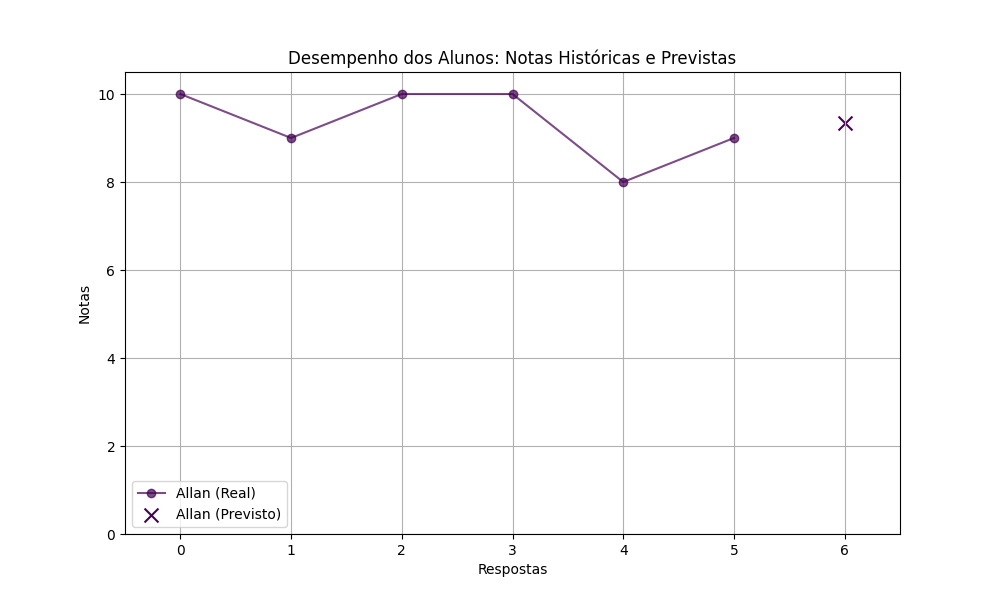
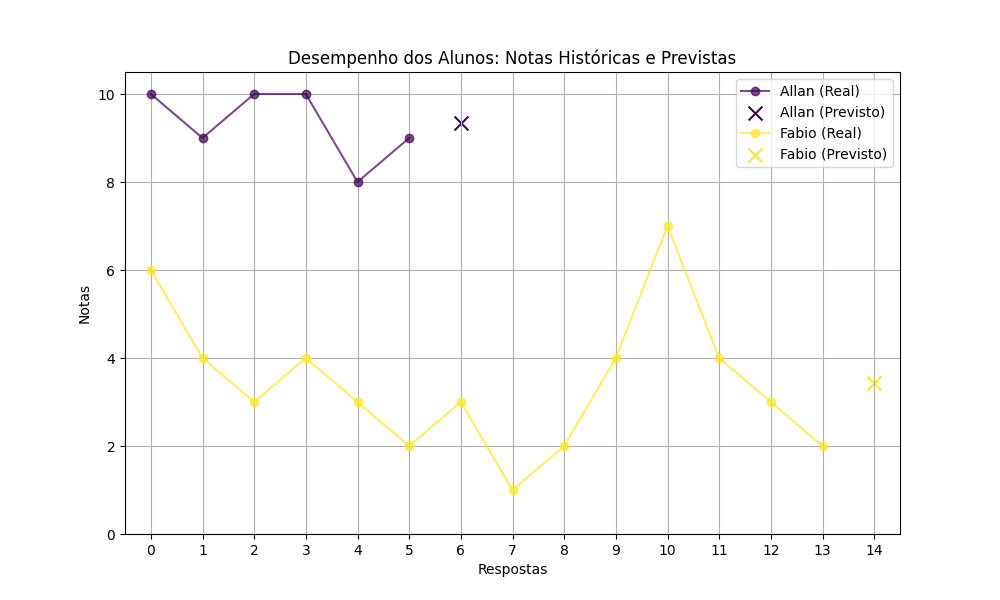
fix feedback_dashboard

diff --git a/templates/feedbacks_professor.html b/templates/feedbacks_professor.html
@@ -45,6 +45,7 @@
         <!-- Feedback por Curso, Módulo e Aula -->
         <section>
             <h3 class="mb-4">Feedback por Curso</h3>
+            <h4 class="mb-3">Respostas dos alunos</h4>
             {% if feedbacks %}
                 {% for curso_nome, modulos in feedbacks.items() %}
                     <div class="card shadow-sm">
@@ -56,9 +57,9 @@
                                 {% for modulo_nome, aulas in modulos.items() %}
                                     <div class="container-fluid mb-3">
                                         <h5 class="c2wColor p-2">{{ modulo_nome }}</h5>
-                                        {% for aula_nome, respostas in aulas.items() %}
+                                        {% for aula_id, respostas in aulas.items() %}
                                             <div class="card mb-3">
-                                                <div class="card-header bg-dark text-white">{{ aula_nome }}</div>
+                                                <div class="card-header bg-dark text-white">{{ aula_id }}</div>
                                                 <div class="card-body">
                                                     {% if respostas %}
                                                         <ul class="list-group">
@@ -102,7 +103,7 @@
                     </ul>
                 </div>
                 <div class="col-md-6">
-                    <h4>Por Tópico</h4>
+                    <h4>Por Módulo</h4>
                     <ul class="list-group">
                         {% if medias_por_curso %}
                             {% for curso, topicos in medias_por_curso.items() %}

diff --git a/routes/teacher_routes.py b/routes/teacher_routes.py
@@ -122,11 +122,9 @@ def get_modulos(curso_id):
         FROM modulos
         WHERE curso_id = ?
     ''', (curso_id,)).fetchall()
-    
-    # Converte cada linha em um dicionário
+
     modulos_list = [{'id': modulo['id'], 'titulo': modulo['titulo']} for modulo in modulos]
 
-    # Retorna a lista de módulos em JSON
     return jsonify({'modulos': modulos_list})
 @teacher_bp.route('/criar_modulo', methods=["GET", "POST"])
 def criar_modulo():
@@ -149,11 +147,8 @@ def criar_modulo():
             flash(f"Erro ao criar o módulo: {e}", "error")
             return redirect(url_for('teacher.criar_modulo'))
 
-    # Carregar cursos para exibir na seleção
     cursos = get_cursos()
     return render_template("criar_modulo.html", cursos=cursos)
-
-
 @teacher_bp.route('/dashboard_professor/feedbacks')
 def ver_feedbacks():
     if session.get('user') and session.get('tipo') == 'professor':
@@ -181,21 +176,24 @@ def ver_feedbacks():
                 medias_por_curso[curso_nome] = {}
 
                 for modulo in modulos:
-                    modulo_id, modulo_nome = modulo[:2]
-                    aulas = get_aulas_por_modulo(modulo_id)
+                    modulo_id, modulo_nome = modulo[0], modulo[1]
                     medias_por_curso[curso_nome][modulo_nome] = {}
 
+                    aulas = get_aulas_por_modulo(modulo_id)
+
+                    aulas_processadas = set()  # Conjunto para rastrear aulas processadas e evitar duplicação
                     for aula in aulas:
                         aula_id, titulo_aula = aula[0], aula[3]
+                        if aula_id in aulas_processadas:
+                            continue
+                        aulas_processadas.add(aula_id)
                         respostas = get_respostas_by_aula(aula_id)
                         feedbacks[curso_nome][modulo_nome][titulo_aula] = respostas if respostas else []
-
                         progresso = get_progresso_by_aula(aula_id)
                         for aluno in progresso:
                             nome = aluno['nome']
                             total_alunos.add(nome)
                             progresso_por_aluno[nome] = aluno['concluida']
-
                         for resposta in respostas:
                             aluno_id = resposta['user_id']
                             nota = resposta['nota']
@@ -203,37 +201,25 @@ def ver_feedbacks():
                                 notas_por_aula[aula_id].append(nota)
                                 notas_por_curso[curso_nome][modulo_nome].append(nota)
 
-            medias_por_aula = {aula_id: (sum(notas) / len(notas)) if notas else 0 for aula_id, notas in notas_por_aula.items()}
+            medias_por_aula = {titulo_aula: (sum(notas) / len(notas)) if notas else 0 for aula_id, notas in notas_por_aula.items()}
             medias_por_curso = {
                 curso: {modulo: (sum(notas) / len(notas)) if notas else 0 for modulo, notas in modulos.items()}
                 for curso, modulos in notas_por_curso.items()
             }
-            print(f"Notas por aula: {medias_por_aula}")
+
             alunos_data = defaultdict(lambda: {'historico': [], 'id': None})
             for aluno_id, nome, nota, progresso, aula in alunos_scores:
                 if alunos_data[nome]['id'] is None:
                     alunos_data[nome]['id'] = aluno_id
                 alunos_data[nome]['historico'].append({'nota': nota, 'progresso': progresso, 'aula': aula})
-            notas = np.array([entry['nota'] for aluno in alunos_data.values() for entry in aluno['historico']])
-            progresso = np.array([entry['progresso'] for aluno in alunos_data.values() for entry in aluno['historico']])
-            if len(notas) == len(progresso) and len(notas) > 0:
-                kmeans = KMeans(n_clusters=3)
-                X = np.column_stack((notas, progresso))
-                kmeans.fit(X)
-                labels = kmeans.labels_
 
-                grupos_alunos = defaultdict(list)
-                for i, aluno in enumerate(alunos_data.keys()):
-                    grupos_alunos[labels[i]].append(aluno)
-
+            if alunos_data:
                 previsoes = prever_notas(alunos_data)
                 for nome, dados in previsoes.items():
                     notas_historico = [entry['nota'] for entry in alunos_data[nome]['historico']]
                     previsoes[nome]['classificacao'] = classificar_aluno(notas_historico)
-
-                if alunos_data:
-                    plot_url = generate_performance_plot(alunos_data, previsoes)
-
+                plot_url = generate_performance_plot(alunos_data, previsoes)
+                
             feedback_texto = gerar_feedback_textual(medias_por_aula, medias_por_curso, previsoes, progresso_por_aluno)
 
             return render_template(
@@ -260,6 +246,7 @@ def ver_feedbacks():
                 medias_por_curso=medias_por_curso
             )
     return redirect(url_for('auth.login'))
+
 
 def classificar_aluno(notas):
     media_nota = np.mean(notas) if notas else 0

diff --git a/models.py b/models.py
@@ -215,7 +215,7 @@ def get_cursos():
     return cursos
 def get_modulos_by_curso_id(curso_id):
     db = get_db()
-    curso = db.execute('SELECT curso_id,titulo,descricao FROM modulos WHERE curso_id = ?', (curso_id,)).fetchall()
+    curso = db.execute('SELECT id,titulo,descricao, curso_id FROM modulos WHERE curso_id = ?', (curso_id,)).fetchall()
     return curso
 def get_aulas(user_id):
     db = get_db()
